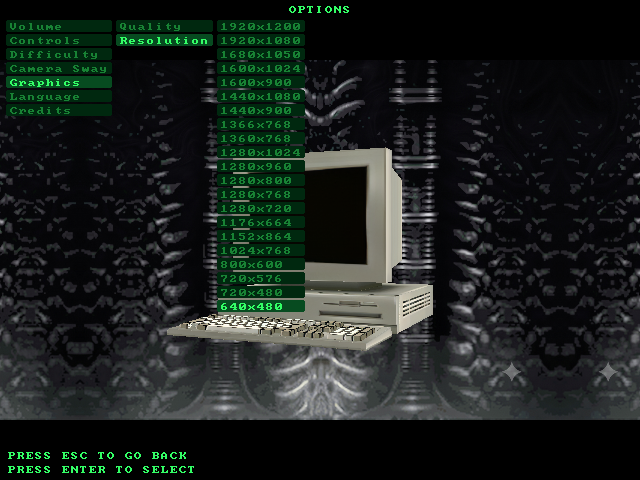
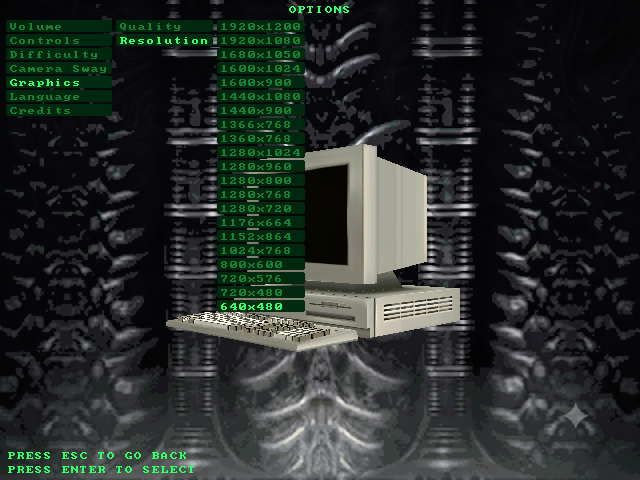
background height scaling

diff --git a/ALTEngine/src/Menu/MenuController.cpp b/ALTEngine/src/Menu/MenuController.cpp
@@ -9,6 +9,7 @@
 #include "../Formats/SplashImageLoader.h"
 #include "../Renderer/ModelRenderer.h"
 #include "../Renderer/ModelPreview.h"
+#include "../Screens/MenuBackground.h"
 
 #include <SDL3/SDL.h>
 #include <algorithm>
@@ -44,10 +45,10 @@ namespace ALTEngine::Menu
     using ALTEngine::Formats::SplashImage;
     using ALTEngine::Formats::SplashImageLoader;
     using ALTEngine::Renderer::ModelRenderer;
+    using ALTEngine::Screens::DrawMenuBackground;
 
     namespace
     {
-        constexpr Color COLOR_BG{ 0, 0, 0, 255 };
         constexpr Color COLOR_GREEN{ 51, 255, 102, 255 };
         constexpr Color COLOR_GREEN_DIM{ 24, 130, 52, 255 };
         constexpr Color COLOR_HIGHLIGHT_BG{ 0, 40, 15, 255 };        // very dark green - every row's default box now (Edward, 2026), not just the selected one
@@ -136,21 +137,6 @@ namespace ALTEngine::Menu
                 SDL_Log("Menu: failed to load LOGOSGFX image %d: %s", imageIndex, e.what());
                 return nullptr;
             }
-        }
-
-        void DrawBackground(SDL_Renderer* renderer, SDL_Texture* texture, int texW, int texH)
-        {
-            SDL_SetRenderDrawColor(renderer, COLOR_BG.r, COLOR_BG.g, COLOR_BG.b, 255);
-            SDL_RenderClear(renderer);
-            if (!texture) { return; }
-
-            int windowW = 0, windowH = 0;
-            SDL_GetRenderOutputSize(renderer, &windowW, &windowH);
-            float scale = std::min(static_cast<float>(windowW) / texW, static_cast<float>(windowH) / texH);
-            float destW = texW * scale;
-            float destH = texH * scale;
-            SDL_FRect dest{ (windowW - destW) / 2.0f, (windowH - destH) / 2.0f, destW, destH };
-            SDL_RenderTexture(renderer, texture, nullptr, &dest);
         }
 
         // Placeholder for the eventual real 3D model render - a labeled
@@ -613,14 +599,14 @@ namespace ALTEngine::Menu
 
             if (screen == Screen::MainMenu)
             {
-                DrawBackground(renderer, mainBg, mainBgW, mainBgH);
+                DrawMenuBackground(renderer, mainBg, mainBgW, mainBgH);
                 int windowW = 0, windowH = 0;
                 SDL_GetRenderOutputSize(renderer, &windowW, &windowH);
                 DrawMainMenuList(renderer, root.children, mainPath[0], windowW, windowH * 2 / 3, rowHeight, scale);
             }
             else if (screen == Screen::Options)
             {
-                DrawBackground(renderer, optionsBg, optionsBgW, optionsBgH);
+                DrawMenuBackground(renderer, optionsBg, optionsBgW, optionsBgH);
 
                 int windowW = 0, windowH = 0;
                 SDL_GetRenderOutputSize(renderer, &windowW, &windowH);
@@ -682,7 +668,7 @@ namespace ALTEngine::Menu
             }
             else // Credits
             {
-                DrawBackground(renderer, optionsBg, optionsBgW, optionsBgH);
+                DrawMenuBackground(renderer, optionsBg, optionsBgW, optionsBgH);
                 // Placeholder - real credits scroll (parsing CD/GFX/CREDITS.TXT
                 // and animating it) isn't implemented yet.
                 DrawBitmapText(renderer, "CREDITS", scale * 8, scale * 8, scale, COLOR_GREEN);

diff --git a/ALTEngine/src/Screens/MissionBriefingScreen.cpp b/ALTEngine/src/Screens/MissionBriefingScreen.cpp
@@ -3,6 +3,7 @@
 #include "../Bootstrap/Font8x8.h"
 #include "../Formats/MissionText.h"
 #include "../Formats/SplashImageLoader.h"
+#include "MenuBackground.h"
 #include "../Renderer/ModelPreview.h"
 
 #include <SDL3/SDL.h>
@@ -110,20 +111,6 @@ namespace ALTEngine::Screens
                 SDL_Log("MissionBriefingScreen: failed to load %s: %s", baseName.c_str(), e.what());
                 return nullptr;
             }
-        }
-
-        void DrawBackground(SDL_Renderer* renderer, SDL_Texture* texture, int texW, int texH)
-        {
-            SDL_SetRenderDrawColor(renderer, 0, 0, 0, 255);
-            SDL_RenderClear(renderer);
-            if (!texture) { return; }
-
-            int windowW = 0, windowH = 0;
-            SDL_GetRenderOutputSize(renderer, &windowW, &windowH);
-            float scale = std::min(static_cast<float>(windowW) / texW, static_cast<float>(windowH) / texH);
-            float destW = texW * scale, destH = texH * scale;
-            SDL_FRect dest{ (windowW - destW) / 2.0f, (windowH - destH) / 2.0f, destW, destH };
-            SDL_RenderTexture(renderer, texture, nullptr, &dest);
         }
 
         int TotalCharCount(const MissionBriefing& briefing)
@@ -325,7 +312,7 @@ namespace ALTEngine::Screens
             int revealedChars = textFullyRevealed ? totalChars : static_cast<int>(elapsed / MS_PER_CHAR);
             if (revealedChars >= totalChars) { revealedChars = totalChars; textFullyRevealed = true; }
 
-            DrawBackground(renderer, background, bgW, bgH);
+            DrawMenuBackground(renderer, background, bgW, bgH);
 
             int scale = ComputeMenuScale(renderer);
             int lineHeight = TextHeight(scale) + scale * 4;

diff --git a/ALTEngine/src/Screens/MenuBackground.cpp b/ALTEngine/src/Screens/MenuBackground.cpp
@@ -65,7 +65,15 @@ namespace ALTEngine::Screens
 
         int windowW = 0, windowH = 0;
         SDL_GetRenderOutputSize(renderer, &windowW, &windowH);
-        float scale = std::min(static_cast<float>(windowW) / texW, static_cast<float>(windowH) / texH);
+
+        // Height-based fill, not aspect-preserving fit - Edward, 2026:
+        // "there are only 6 menu background images, I am thinking we
+        // should scale them to remove black bars for non 16:9
+        // resolutions... Scale the height and width until the height
+        // matches the resolution height" - lets any excess width run
+        // past the window edges (centred, clipped) rather than
+        // letterboxing with black bars on the sides.
+        float scale = static_cast<float>(windowH) / static_cast<float>(texH);
         float destW = texW * scale, destH = texH * scale;
         SDL_FRect dest{ (windowW - destW) / 2.0f, (windowH - destH) / 2.0f, destW, destH };
         SDL_RenderTexture(renderer, texture, nullptr, &dest);
